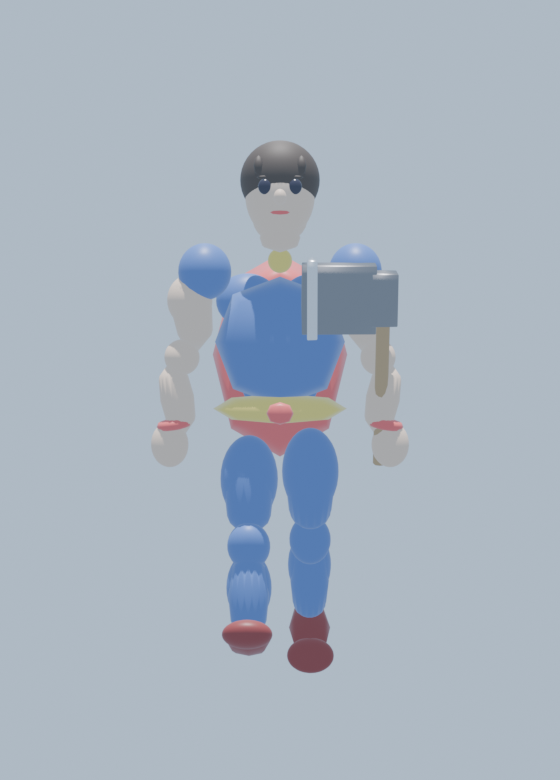
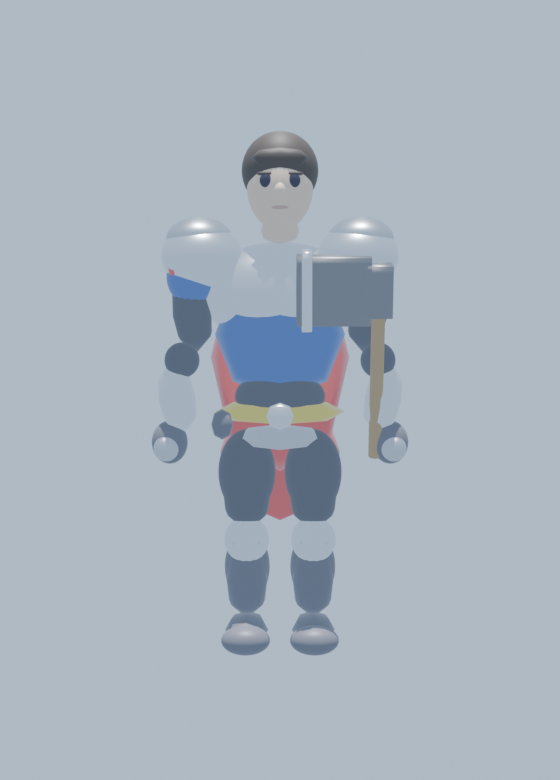
4号機: 装備の手持ち見栄えをヒーローplayerで再調整（③）
新ヒーローplayer.glb(籠手/グローブ反映)で手アンカー再計測し
build_hold_demo.py/EQUIP_HOLD.mdを更新。剣/斧/弓/盾を握る手元が
鋼の籠手で映える。見本 tools/hold_hero_front.png(盾+剣の戦士立ち)。
右手HAND_R=(-0.37,0,0.73)/左手HAND_L=(0.37,0,0.73)。

Changed region(s): [[0.2732, 0.2769, 0.7286, 0.8615], [0.425, 0.1538, 0.5768, 0.2769], [0.2732, 0.5231, 0.3339, 0.6154]]

diff --git a/tools/build_hold_demo.py b/tools/build_hold_demo.py
@@ -10,7 +10,7 @@ import bpy, os, math, mathutils
 V=mathutils.Vector
 repo=os.path.abspath(os.path.join(os.path.dirname(__file__),".."))
 MODELS=os.path.join(repo,"models")
-HAND_R=V((-0.39,-0.02,0.70)); HAND_L=V((0.39,-0.02,0.70))
+HAND_R=V((-0.37,0.0,0.73)); HAND_L=V((0.37,0.0,0.73))   # ヒーロー版player再計測
 
 # 武器ごとの手持ち仕様：(手, 位置=手先からの微調整, 回転euler度)
 # 回転は Blender(Z-up,正面+Y)。剣/ピッケル/斧=握り基部が手・刃/頭が上前方、弓/盾=握り中央/中心。

diff --git a/models/EQUIP_HOLD.md b/models/EQUIP_HOLD.md
@@ -15,13 +15,16 @@
 
 ## 1. 手のアンカー位置（restポーズ・実測）
 
+※2026-06-02 ヒーロー作り込み版 player.glb で再計測（籠手/グローブ反映）。
+
 | | Blenderワールド(m, Z-up,+Y正面) | エンジン(glTF Y-up, -Z正面) |
 |---|---|---|
-| 右手 HAND_R | (-0.39, -0.02, 0.70) | (-0.39, 0.70, 0.02) |
-| 左手 HAND_L | ( 0.39, -0.02, 0.70) | ( 0.39, 0.70, 0.02) |
+| 右手 HAND_R | (-0.37, 0.0, 0.73) | (-0.37, 0.73, 0.0) |
+| 左手 HAND_L | ( 0.37, 0.0, 0.73) | ( 0.37, 0.73, 0.0) |
 
-参考：肩ピボット（腕ノード原点）は右 ArmR=(-0.30,0,1.46)／左 ArmL=(0.30,0,1.46)（Blender m）。
-→ 手は肩から約 0.76m 下・わずかに前。腕ノードの子に付ける場合のローカル位置 ≒ `HAND - 肩`。
+参考：肩ピボット（腕ノード原点）は右 ArmR=(-0.30,0,1.47)／左 ArmL=(0.30,0,1.47)（Blender m）。
+→ 手は肩から約 0.74m 下。腕ノードの子に付ける場合のローカル位置 ≒ `HAND - 肩`。
+ヒーロー版は鋼の籠手/グローブを装着済み＝武器を握る手元が映える。見本 `tools/hold_hero_front.png`（盾＋剣）。
 
 ## 2. 武器別グリップ（位置は手アンカー基準・回転は軽い微調整）
 
